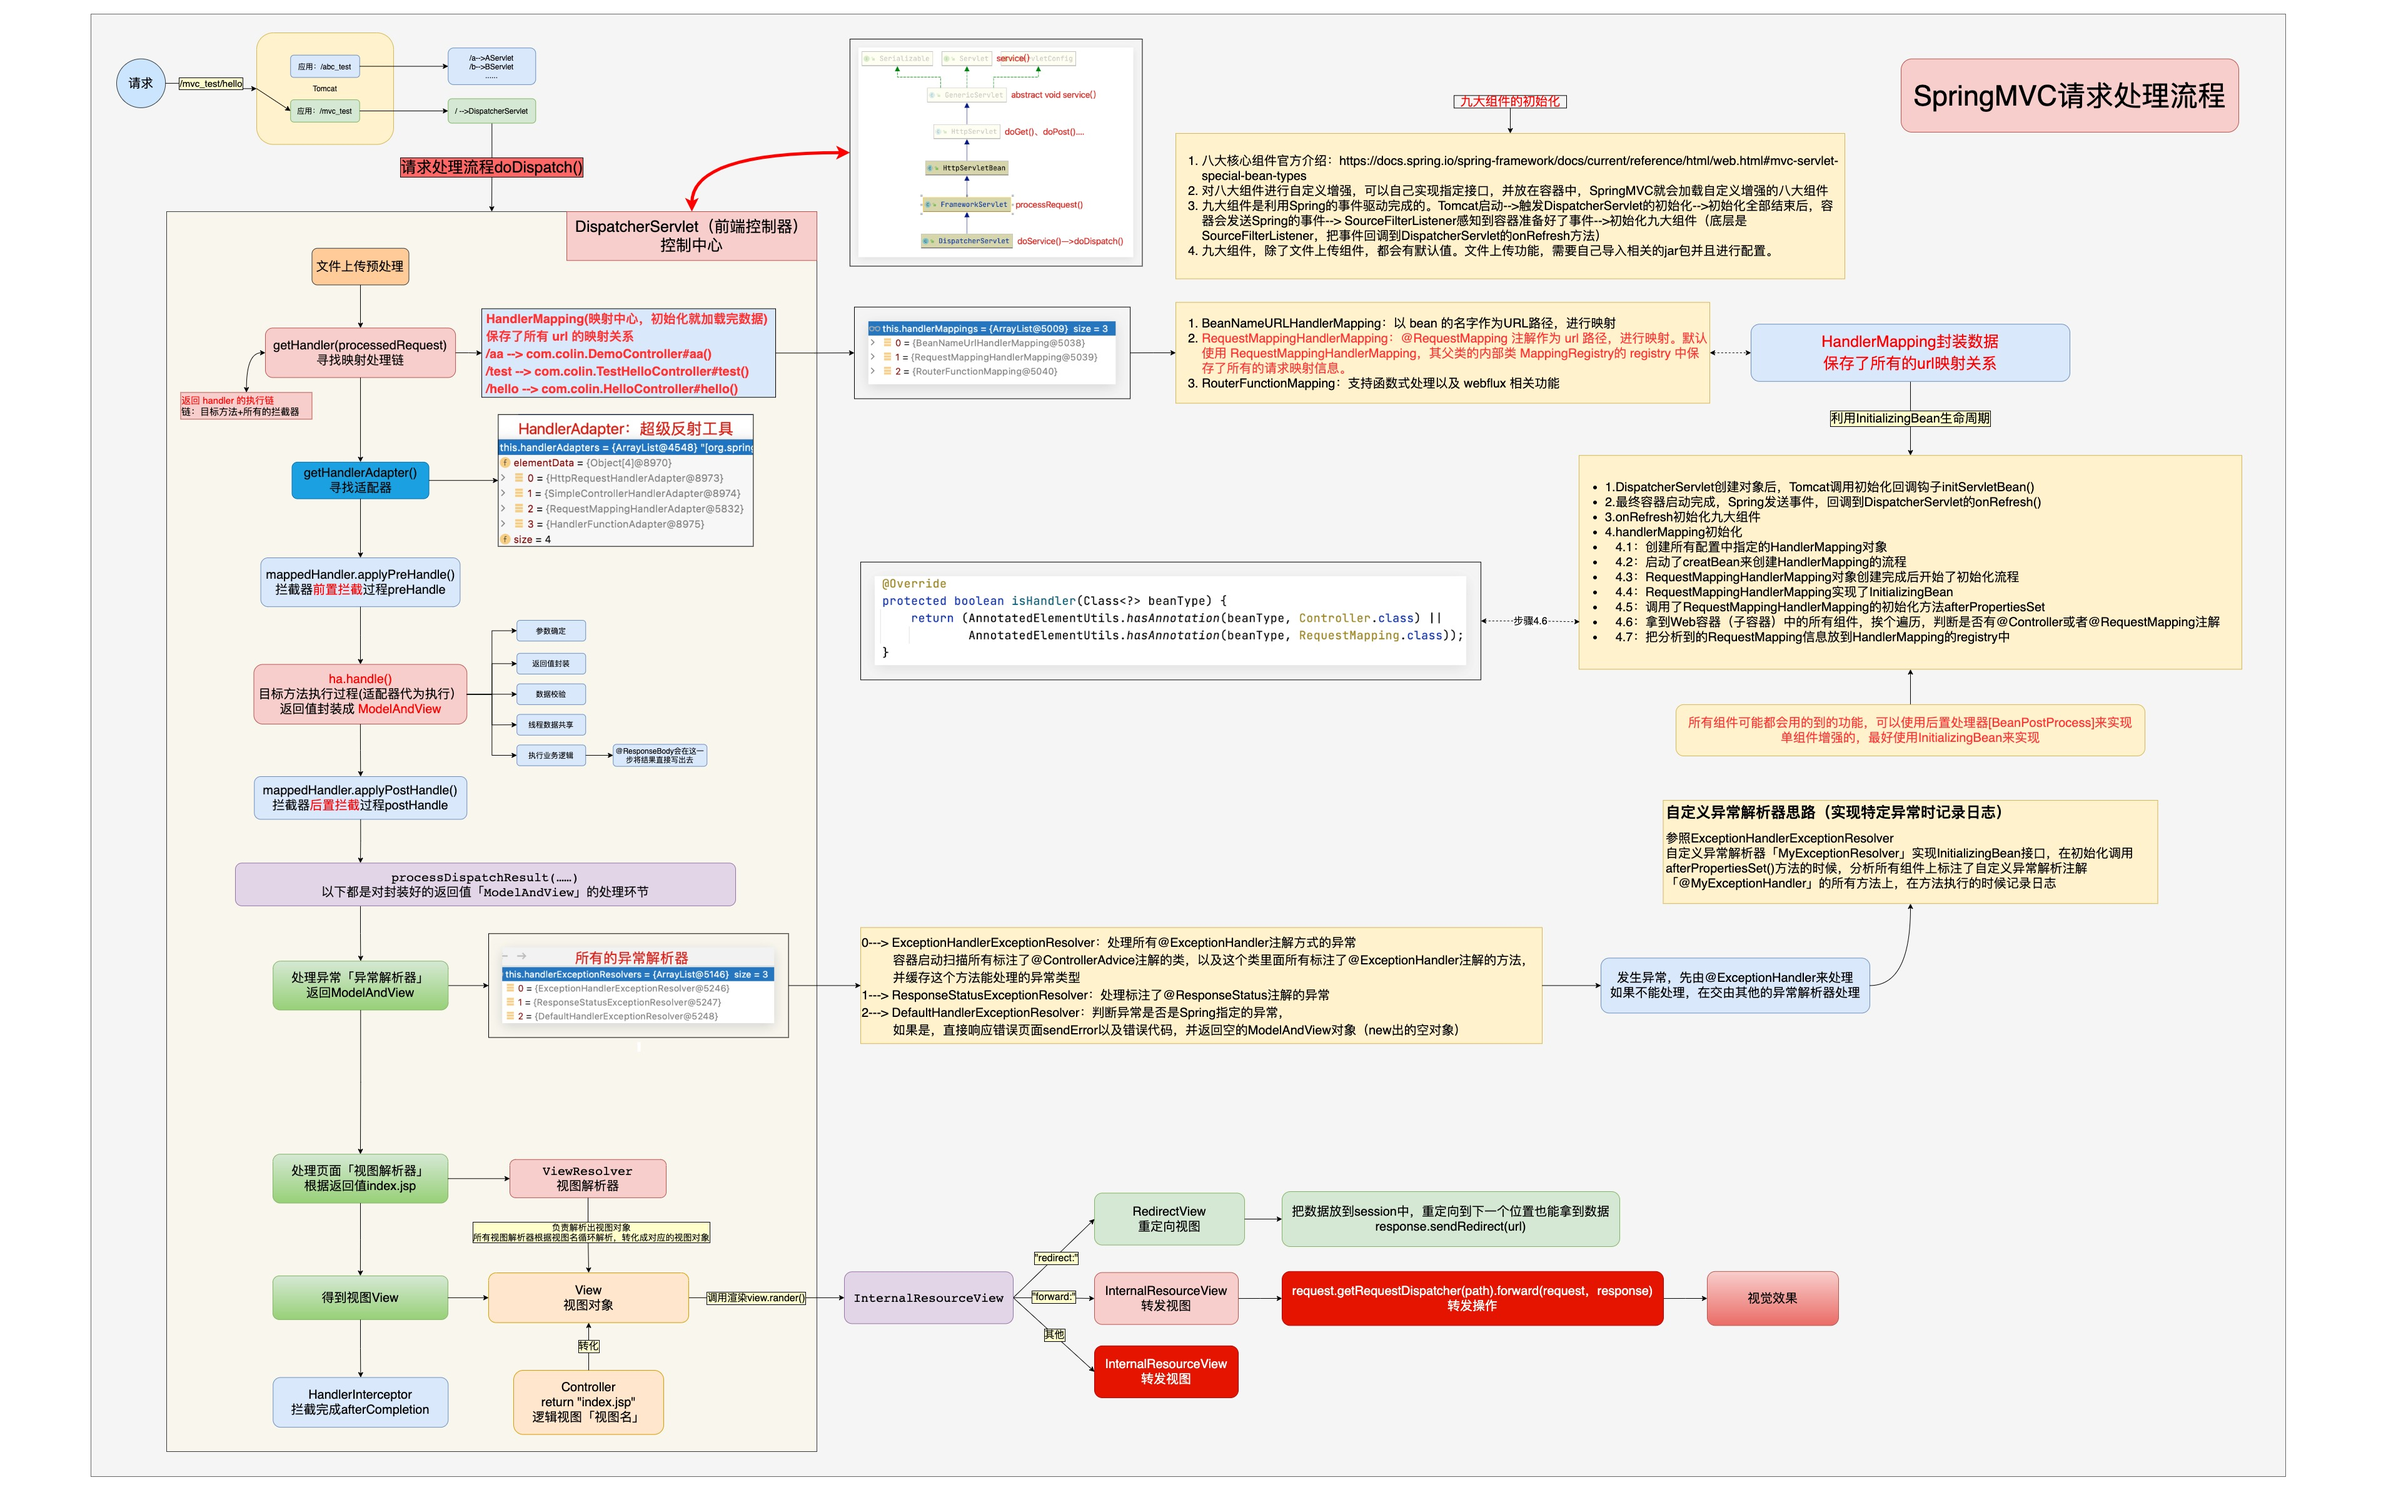
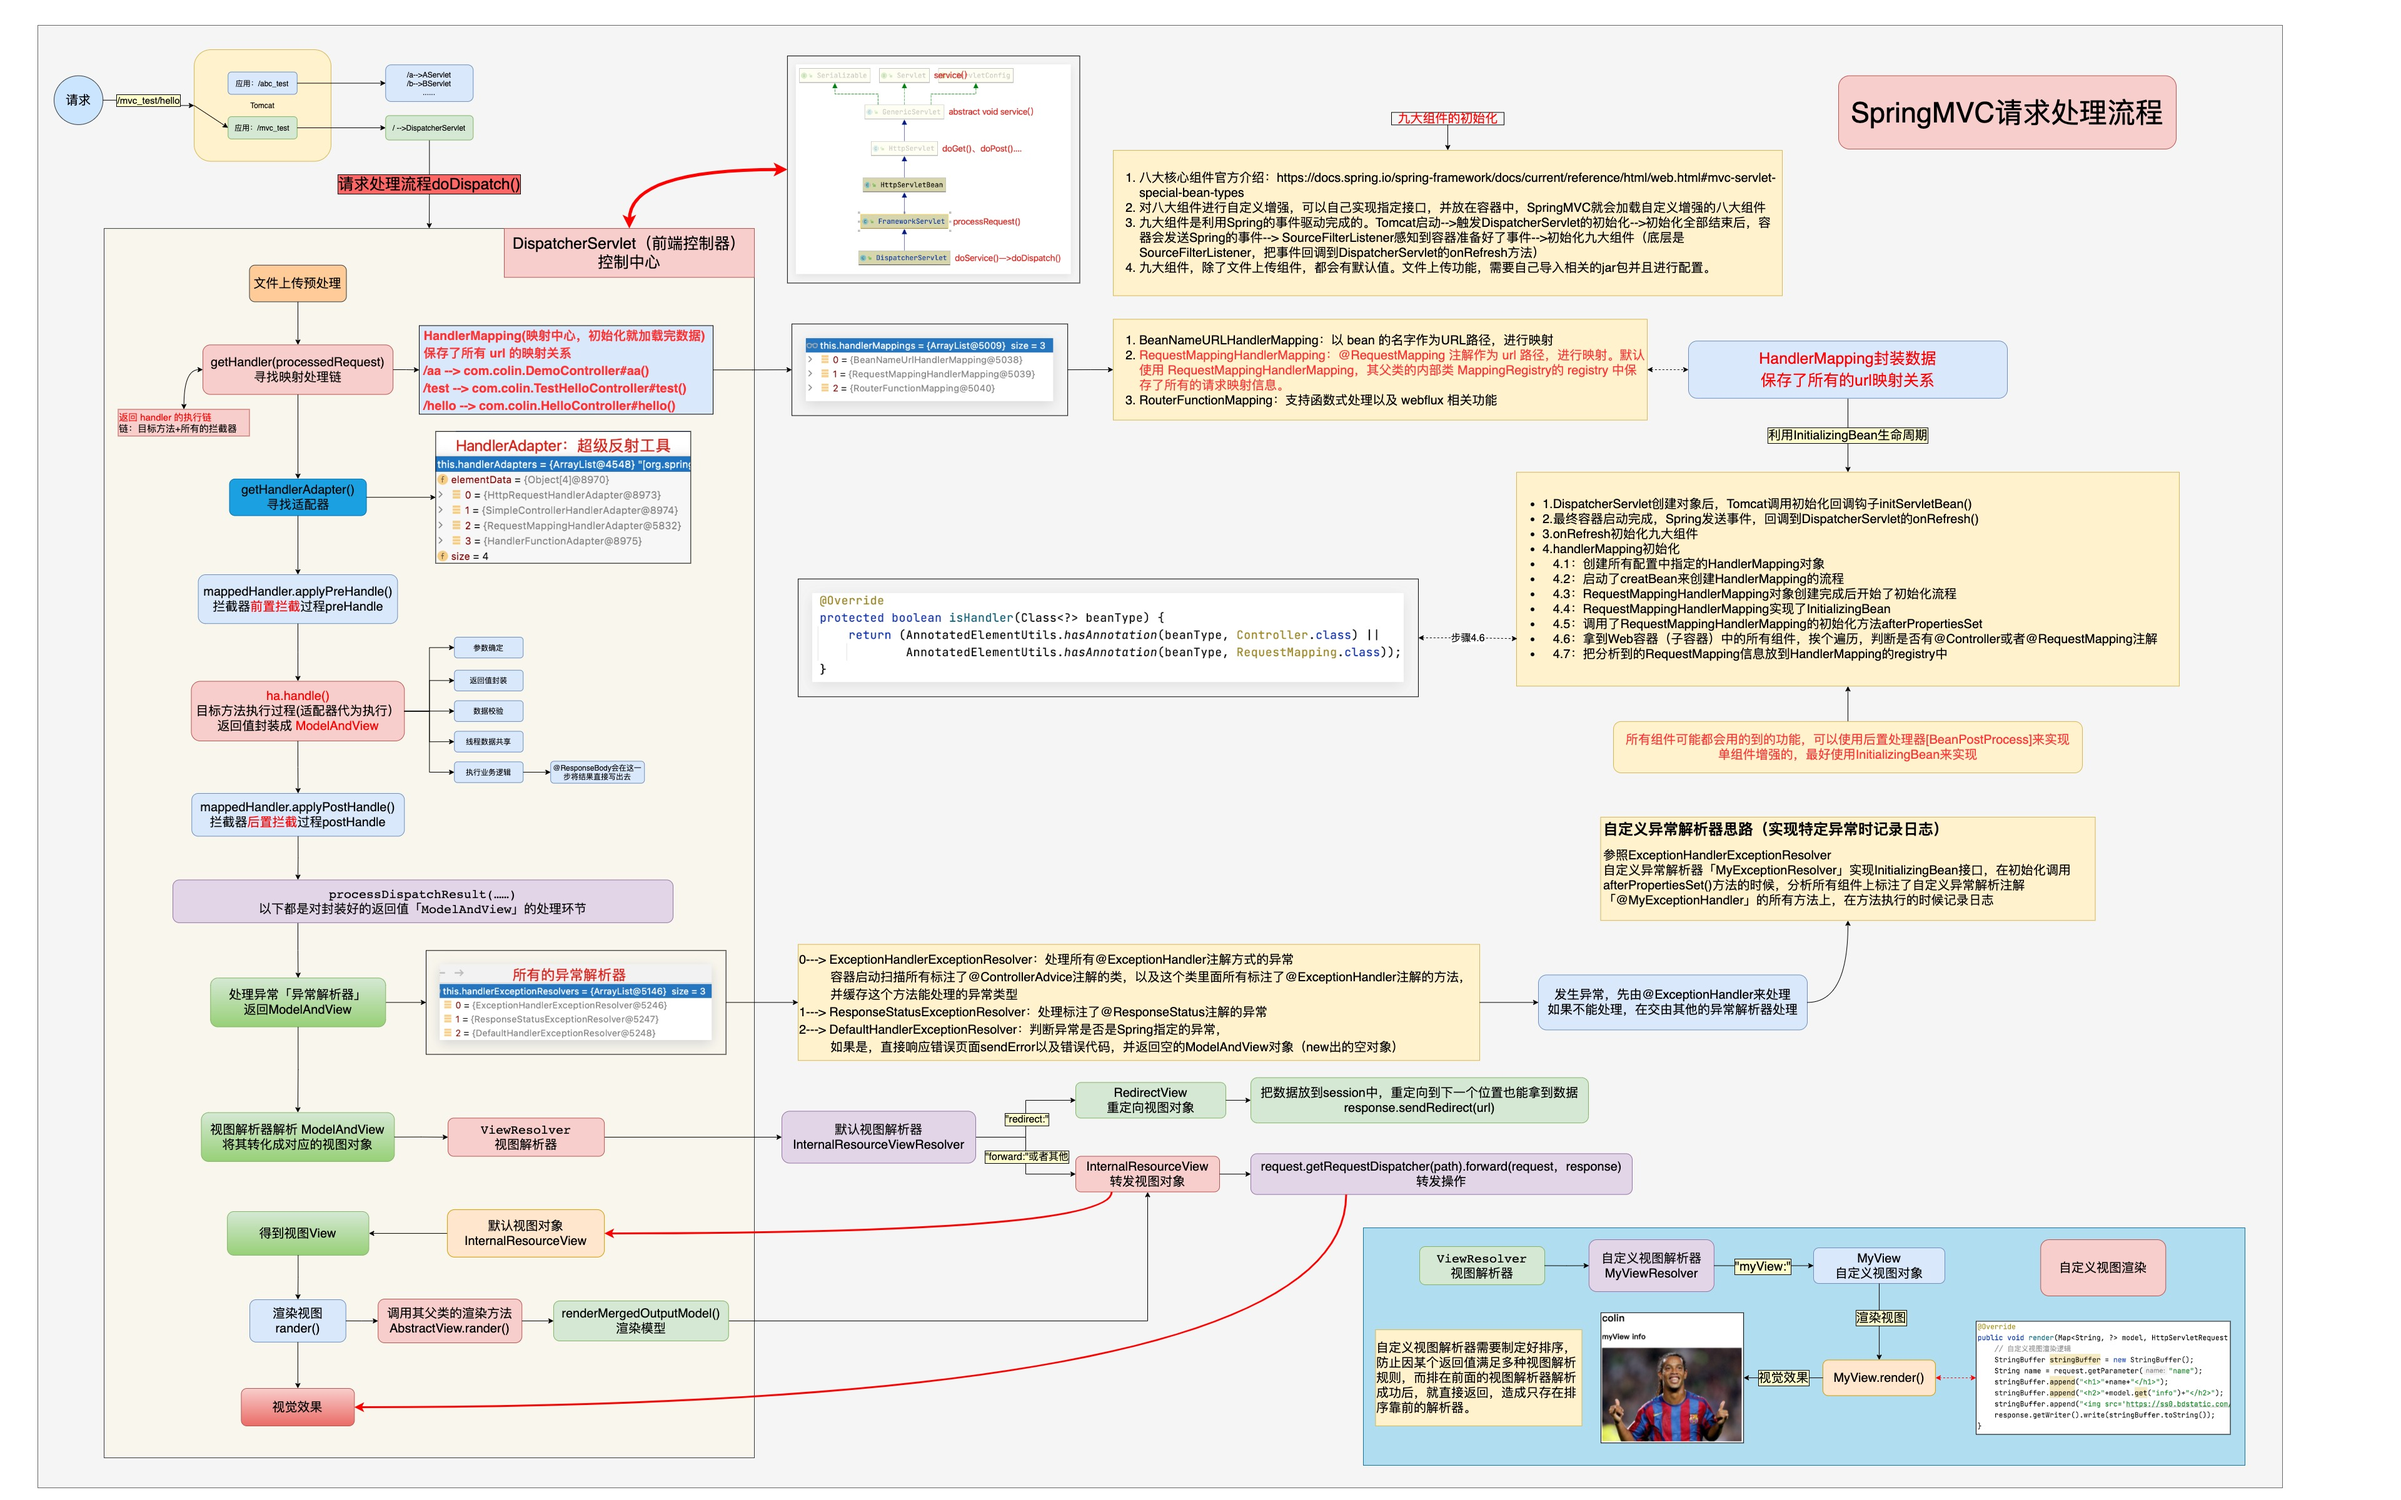
update

Changed region(s): [[0.0, 0.0, 0.9375, 1.0]]

diff --git a/spring-webmvc/src/main/java/org/springframework/web/servlet/mvc/method/annotation/RequestMappingHandlerAdapter.java b/spring-webmvc/src/main/java/org/springframework/web/servlet/mvc/method/annotation/RequestMappingHandlerAdapter.java
@@ -806,7 +806,7 @@ public class RequestMappingHandlerAdapter extends AbstractHandlerMethodAdapter
 			}
 		}
 		else {
-			// 非同步请求，返回目标方法返回值的模型视图.No synchronization on session demanded at all...
+			// 不加会话锁的情况下，执行目标方法并返回目标方法返回值的模型视图。No synchronization on session demanded at all...
 			mav = invokeHandlerMethod(request, response, handlerMethod);
 		}
 
@@ -857,7 +857,7 @@ public class RequestMappingHandlerAdapter extends AbstractHandlerMethodAdapter
 		try {
 			// 数据绑定器「请求数据到自定义Object属性的映射需要 WebDataBinder（数据类型装换、绑定错误处理等）」
 			WebDataBinderFactory binderFactory = getDataBinderFactory(handlerMethod);
-			// 获取到模型工厂 Model 「要交给页面的数据」
+			// 获取到模型工厂「Model：要交给页面的数据」
 			ModelFactory modelFactory = getModelFactory(handlerMethod, binderFactory);
 			// 封装 handlerMethod 变为 ServletInvocableHandlerMethod 「提供了handlerMethod中信息的快速获取」
 			ServletInvocableHandlerMethod invocableMethod = createInvocableHandlerMethod(handlerMethod);
@@ -1019,7 +1019,7 @@ public class RequestMappingHandlerAdapter extends AbstractHandlerMethodAdapter
 			Map<String, ?> flashAttributes = ((RedirectAttributes) model).getFlashAttributes();
 			HttpServletRequest request = webRequest.getNativeRequest(HttpServletRequest.class);
 			if (request != null) {
-				// 重定向数据的共享。「RedirectView，先把数据移到request中，再把request移到session中」
+				// 重定向数据的共享。「RedirectView，先把数据移到 request 中，再把 request 移到 session 中」
 				RequestContextUtils.getOutputFlashMap(request).putAll(flashAttributes);
 			}
 		}

diff --git a/spring-webmvc/src/main/java/org/springframework/web/servlet/DispatcherServlet.java b/spring-webmvc/src/main/java/org/springframework/web/servlet/DispatcherServlet.java
@@ -1070,7 +1070,7 @@ public class DispatcherServlet extends FrameworkServlet {
 					return;
 				}
 
-				// 真正执行目标方法。「确定参数值，反射执行目标方法，处理返回值-->将返回值封装成 ModelAndView」Actually invoke the handler.
+				// 真正执行目标方法。「适配器执行目标方法」「确定参数值，反射执行目标方法，处理返回值-->将返回值封装成 ModelAndView」Actually invoke the handler.
 				mv = ha.handle(processedRequest, response, mappedHandler.getHandler());
 
 				if (asyncManager.isConcurrentHandlingStarted()) {
@@ -1456,6 +1456,7 @@ public class DispatcherServlet extends FrameworkServlet {
 
 		if (this.viewResolvers != null) {
 			// 所有的视图解析器「ViewResolver」，尝试根据当前视图名「viewName」得到对应的视图「view」对象
+			// 即使某个返回值满足多种视图解析规则，排在前面的视图解析器解析成功，就直接返回
 			for (ViewResolver viewResolver : this.viewResolvers) {
 				View view = viewResolver.resolveViewName(viewName, locale);
 				if (view != null) {

diff --git a/colin-mvc-test/src/main/java/com/colin/web/controller/HelloController.java b/colin-mvc-test/src/main/java/com/colin/web/controller/HelloController.java
@@ -45,20 +45,18 @@ public class HelloController {
 			throw new InvalidUserException();
 		}
 
-		// 方法的签名，详细参照：https://docs.spring.io/spring-framework/docs/current/reference/html/web.html#mvc-ann-arguments
+		// 方法的参数写法，详细参照：https://docs.spring.io/spring-framework/docs/current/reference/html/web.html#mvc-ann-arguments
 		String mvc = helloService.sayHello(user+" MVC "+name);
 		session.setAttribute("msg",mvc);
 		// 方法返回值的写法，详细参照：https://docs.spring.io/spring-framework/docs/current/reference/html/web.html#mvc-ann-return-types
 		return "index.jsp";
 	}
 
-	@GetMapping("/meinv")
-	public String meinv(String name, Model model){
-
+	@GetMapping("/myView")
+	public String myViewTest(String name, Model model){
 		// 模拟数据库查询数据
-		model.addAttribute("info","meinv info");
-
-		// 页面渲染的效果是美女的详情
-		return "meinv:"+name;
+		model.addAttribute("info","myView info");
+		// 页面渲染的效果是"小罗"的详情
+		return "myView:"+name;
 	}
 }

diff --git a/colin-mvc-test/src/main/java/com/colin/web/view/MyViewResolver.java b/colin-mvc-test/src/main/java/com/colin/web/view/MyViewResolver.java
@@ -10,14 +10,16 @@ import java.util.Locale;
  * @author colin
  * @create 2021-05-04 21:24
  * 自定义视图解析器
+ * SpringBoot 整合时，自定义视图解析器需要制定好排序，
+ * 防止因某个返回值满足多种视图解析规则，排在前面的视图解析器解析成功，就直接返回，造成只存在排序靠前的解析器。
  */
 //@Component
-public class MeiNvResolver implements ViewResolver {
+public class MyViewResolver implements ViewResolver {
 	@Override
 	public View resolveViewName(String viewName, Locale locale) throws Exception {
-		// 直解析 meinv
-		if (viewName.startsWith("meinv:")){
-			return new MeiNvView();
+		// 只解析自定义视图 myView
+		if (viewName.startsWith("myView:")){
+			return new MyView();
 		}
 		return null;
 	}

diff --git a/spring-webmvc/src/main/java/org/springframework/web/servlet/view/AbstractView.java b/spring-webmvc/src/main/java/org/springframework/web/servlet/view/AbstractView.java
@@ -439,12 +439,13 @@ public abstract class AbstractView extends WebApplicationObjectSupport implement
 	 */
 	protected void exposeModelAsRequestAttributes(Map<String, Object> model,
 			HttpServletRequest request) throws Exception {
-		// 遍历 model 中的数据放入 request 域中。如果 model 中数据的值为 null，则会移除请求域中对应的数据
+		// 遍历 model 中的所有数据全部放入 request 域中。如果 model 中数据的值为 null，则会移除请求域中对应的数据
 		model.forEach((name, value) -> {
 			if (value != null) {
 				request.setAttribute(name, value);
 			}
 			else {
+				// 如果 model 中数据的值为 null，则会移除请求域中对应的数据
 				request.removeAttribute(name);
 			}
 		});

diff --git a/colin-mvc-test/src/main/java/com/colin/web/view/MyView.java b/colin-mvc-test/src/main/java/com/colin/web/view/MyView.java
@@ -11,17 +11,15 @@ import java.util.Map;
  * @create 2021-05-04 21:13
  * 自定义视图
  */
-public class MeiNvView implements View {
+public class MyView implements View {
 	@Override
 	public void render(Map<String, ?> model, HttpServletRequest request, HttpServletResponse response) throws Exception {
-
 		// 自定义视图渲染逻辑
 		StringBuffer stringBuffer = new StringBuffer();
 		String name = request.getParameter("name");
 		stringBuffer.append("<h1>"+name+"</h1>");
 		stringBuffer.append("<h2>"+model.get("info")+"</h2>");
 		stringBuffer.append("<img src='https://ss0.bdstatic.com/70cFvHSh_Q1YnxGkpoWK1HF6hhy/it/u=1207128855,3080267973&fm=26&gp=0.jpg'>");
-
 		response.getWriter().write(stringBuffer.toString());
 	}
 }

diff --git a/colin-mvc-test/src/main/java/com/colin/web/config/MvcExtendConfiguration.java b/colin-mvc-test/src/main/java/com/colin/web/config/MvcExtendConfiguration.java
@@ -1,15 +1,6 @@
 package com.colin.web.config;
 
-import com.colin.web.view.MeiNvResolver;
-import org.springframework.context.annotation.Configuration;
-import org.springframework.web.servlet.config.annotation.EnableWebMvc;
-import org.springframework.web.servlet.config.annotation.PathMatchConfigurer;
-import org.springframework.web.servlet.config.annotation.ViewResolverRegistry;
 import org.springframework.web.servlet.config.annotation.WebMvcConfigurer;
-import org.springframework.web.servlet.view.InternalResourceViewResolver;
-import org.springframework.web.util.UrlPathHelper;
-
-import java.util.function.Predicate;
 
 /**
  * @author colin

diff --git a/colin-mvc-test/src/main/java/com/colin/web/controller/HelloHttpRequestHandler.java b/colin-mvc-test/src/main/java/com/colin/web/controller/HelloHttpRequestHandler.java
@@ -13,6 +13,8 @@ import java.io.IOException;
  * @create 2021-05-04 08:44
  * BeanNameUrlHandlerMapping 创建好对象以后也要初始化，
  * 启动拿到容器中所有的组件，看谁的名字是以"/"开头的，就把这个组件注册为处理器
+ *
+ * HelloHttpRequestHandler 实现了 HttpRequestHandler 接口，这个处理器对应的适配器是 HttpRequestHandlerAdapter
  */
 @Controller("/helloReq") // BeanNameUrlHandlerMapping 就会把他注册为处理器
 public class HelloHttpRequestHandler implements HttpRequestHandler {

diff --git a/colin-mvc-test/src/main/java/com/colin/web/controller/HelloSimpleController.java b/colin-mvc-test/src/main/java/com/colin/web/controller/HelloSimpleController.java
@@ -10,6 +10,8 @@ import javax.servlet.http.HttpServletResponse;
 /**
  * @author colin
  * @create 2021-05-04 09:00
+ *
+ * HelloSimpleController 实现了 Controller 接口，支持当前处理器的处理器适配器是 SimpleControllerHandlerAdapter
  */
 @org.springframework.stereotype.Controller("/helloSimple")
 public class HelloSimpleController implements Controller {
